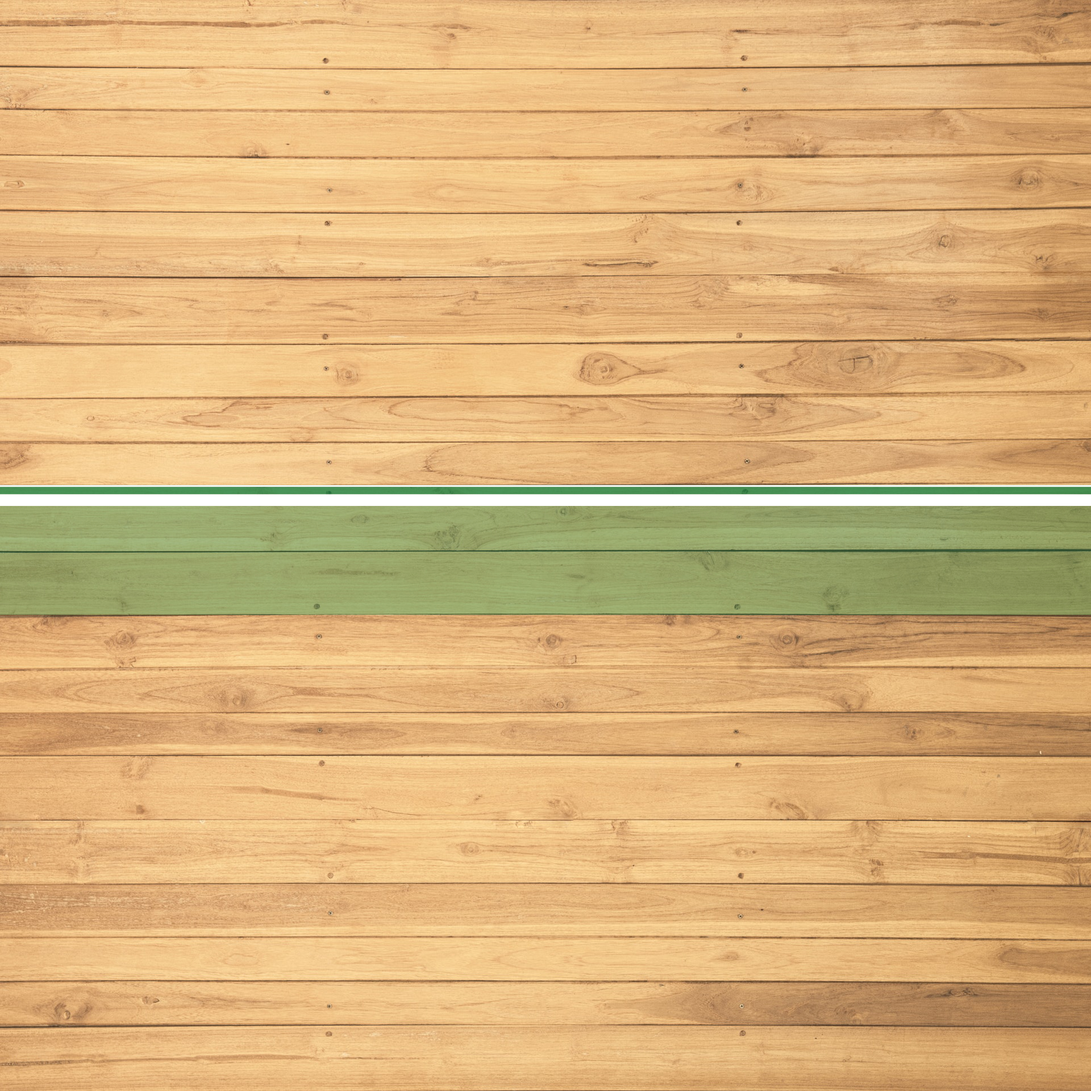
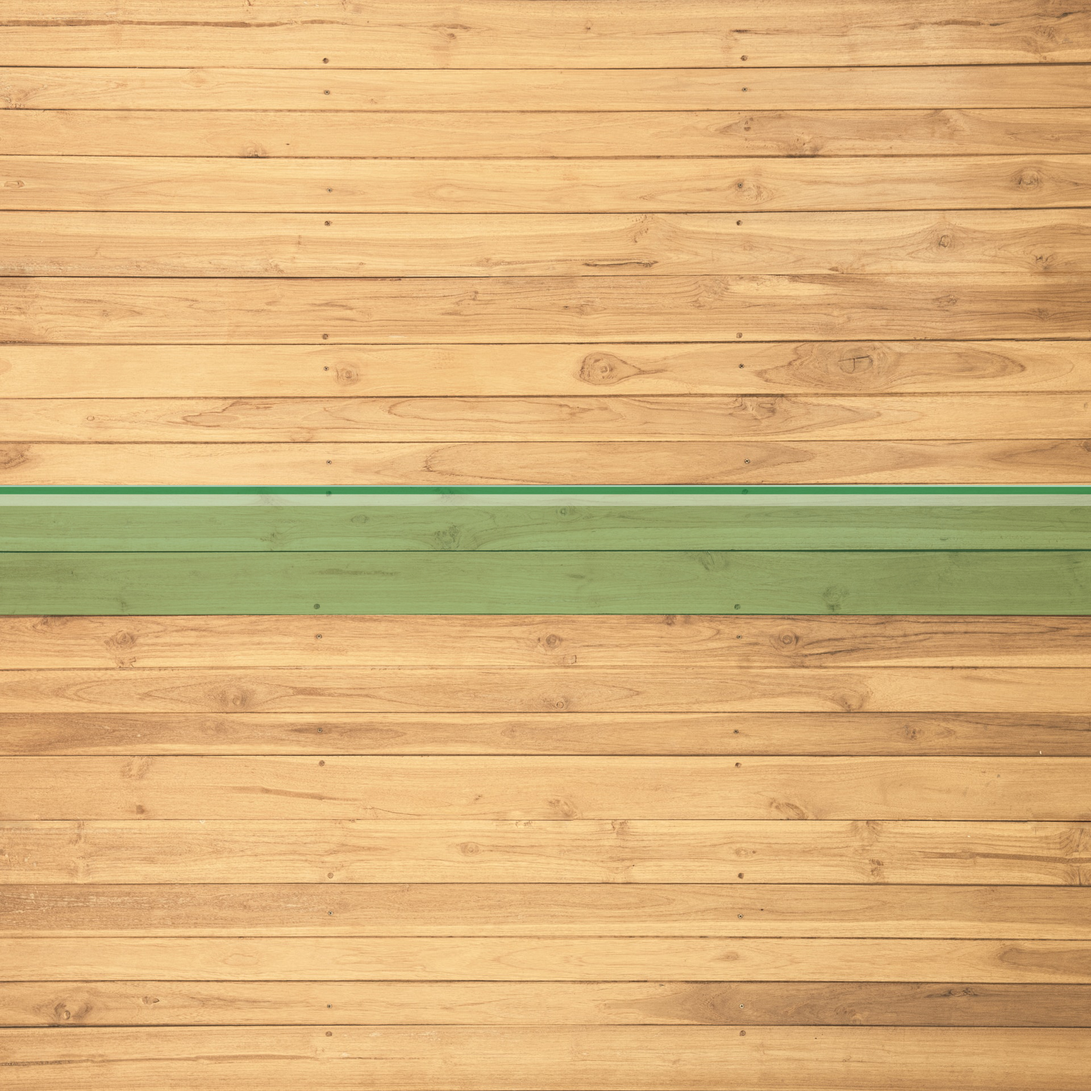
styling products

Changed region(s): [[0.0, 0.4304, 1.0, 0.4612]]

diff --git a/css/style.css b/css/style.css
@@ -407,7 +407,7 @@ body {
   }
 }
 .products__composition {
-  box-shadow: rgba(0, 0, 0, 0.3) 0px 19px 38px 0px, rgba(0, 0, 0, 0.22) 0px 15px 12px 0px, rgba(50, 50, 93, 0.25) 0px 30px 40px -12px inset, rgba(0, 0, 0, 0.3) 0px 18px 36px -18px inset;
+  box-shadow: rgba(0, 0, 0, 0.3) 0px 19px 38px 0px, rgba(0, 0, 0, 0.22) 0px 15px 12px 0px;
   background-image: url("../img/products-composition-background.png");
   border-radius: 1%;
   padding: 1rem;

diff --git a/sass/components/_products.scss b/sass/components/_products.scss
@@ -76,9 +76,7 @@
 
   &__composition {
     box-shadow: rgba(0, 0, 0, 0.3) 0px 19px 38px 0px,
-      rgba(0, 0, 0, 0.22) 0px 15px 12px 0px,
-      rgba(50, 50, 93, 0.25) 0px 30px 40px -12px inset,
-      rgba(0, 0, 0, 0.3) 0px 18px 36px -18px inset;
+      rgba(0, 0, 0, 0.22) 0px 15px 12px 0px;
 
     background-image: url("../img/products-composition-background.png");
     border-radius: 1%;
